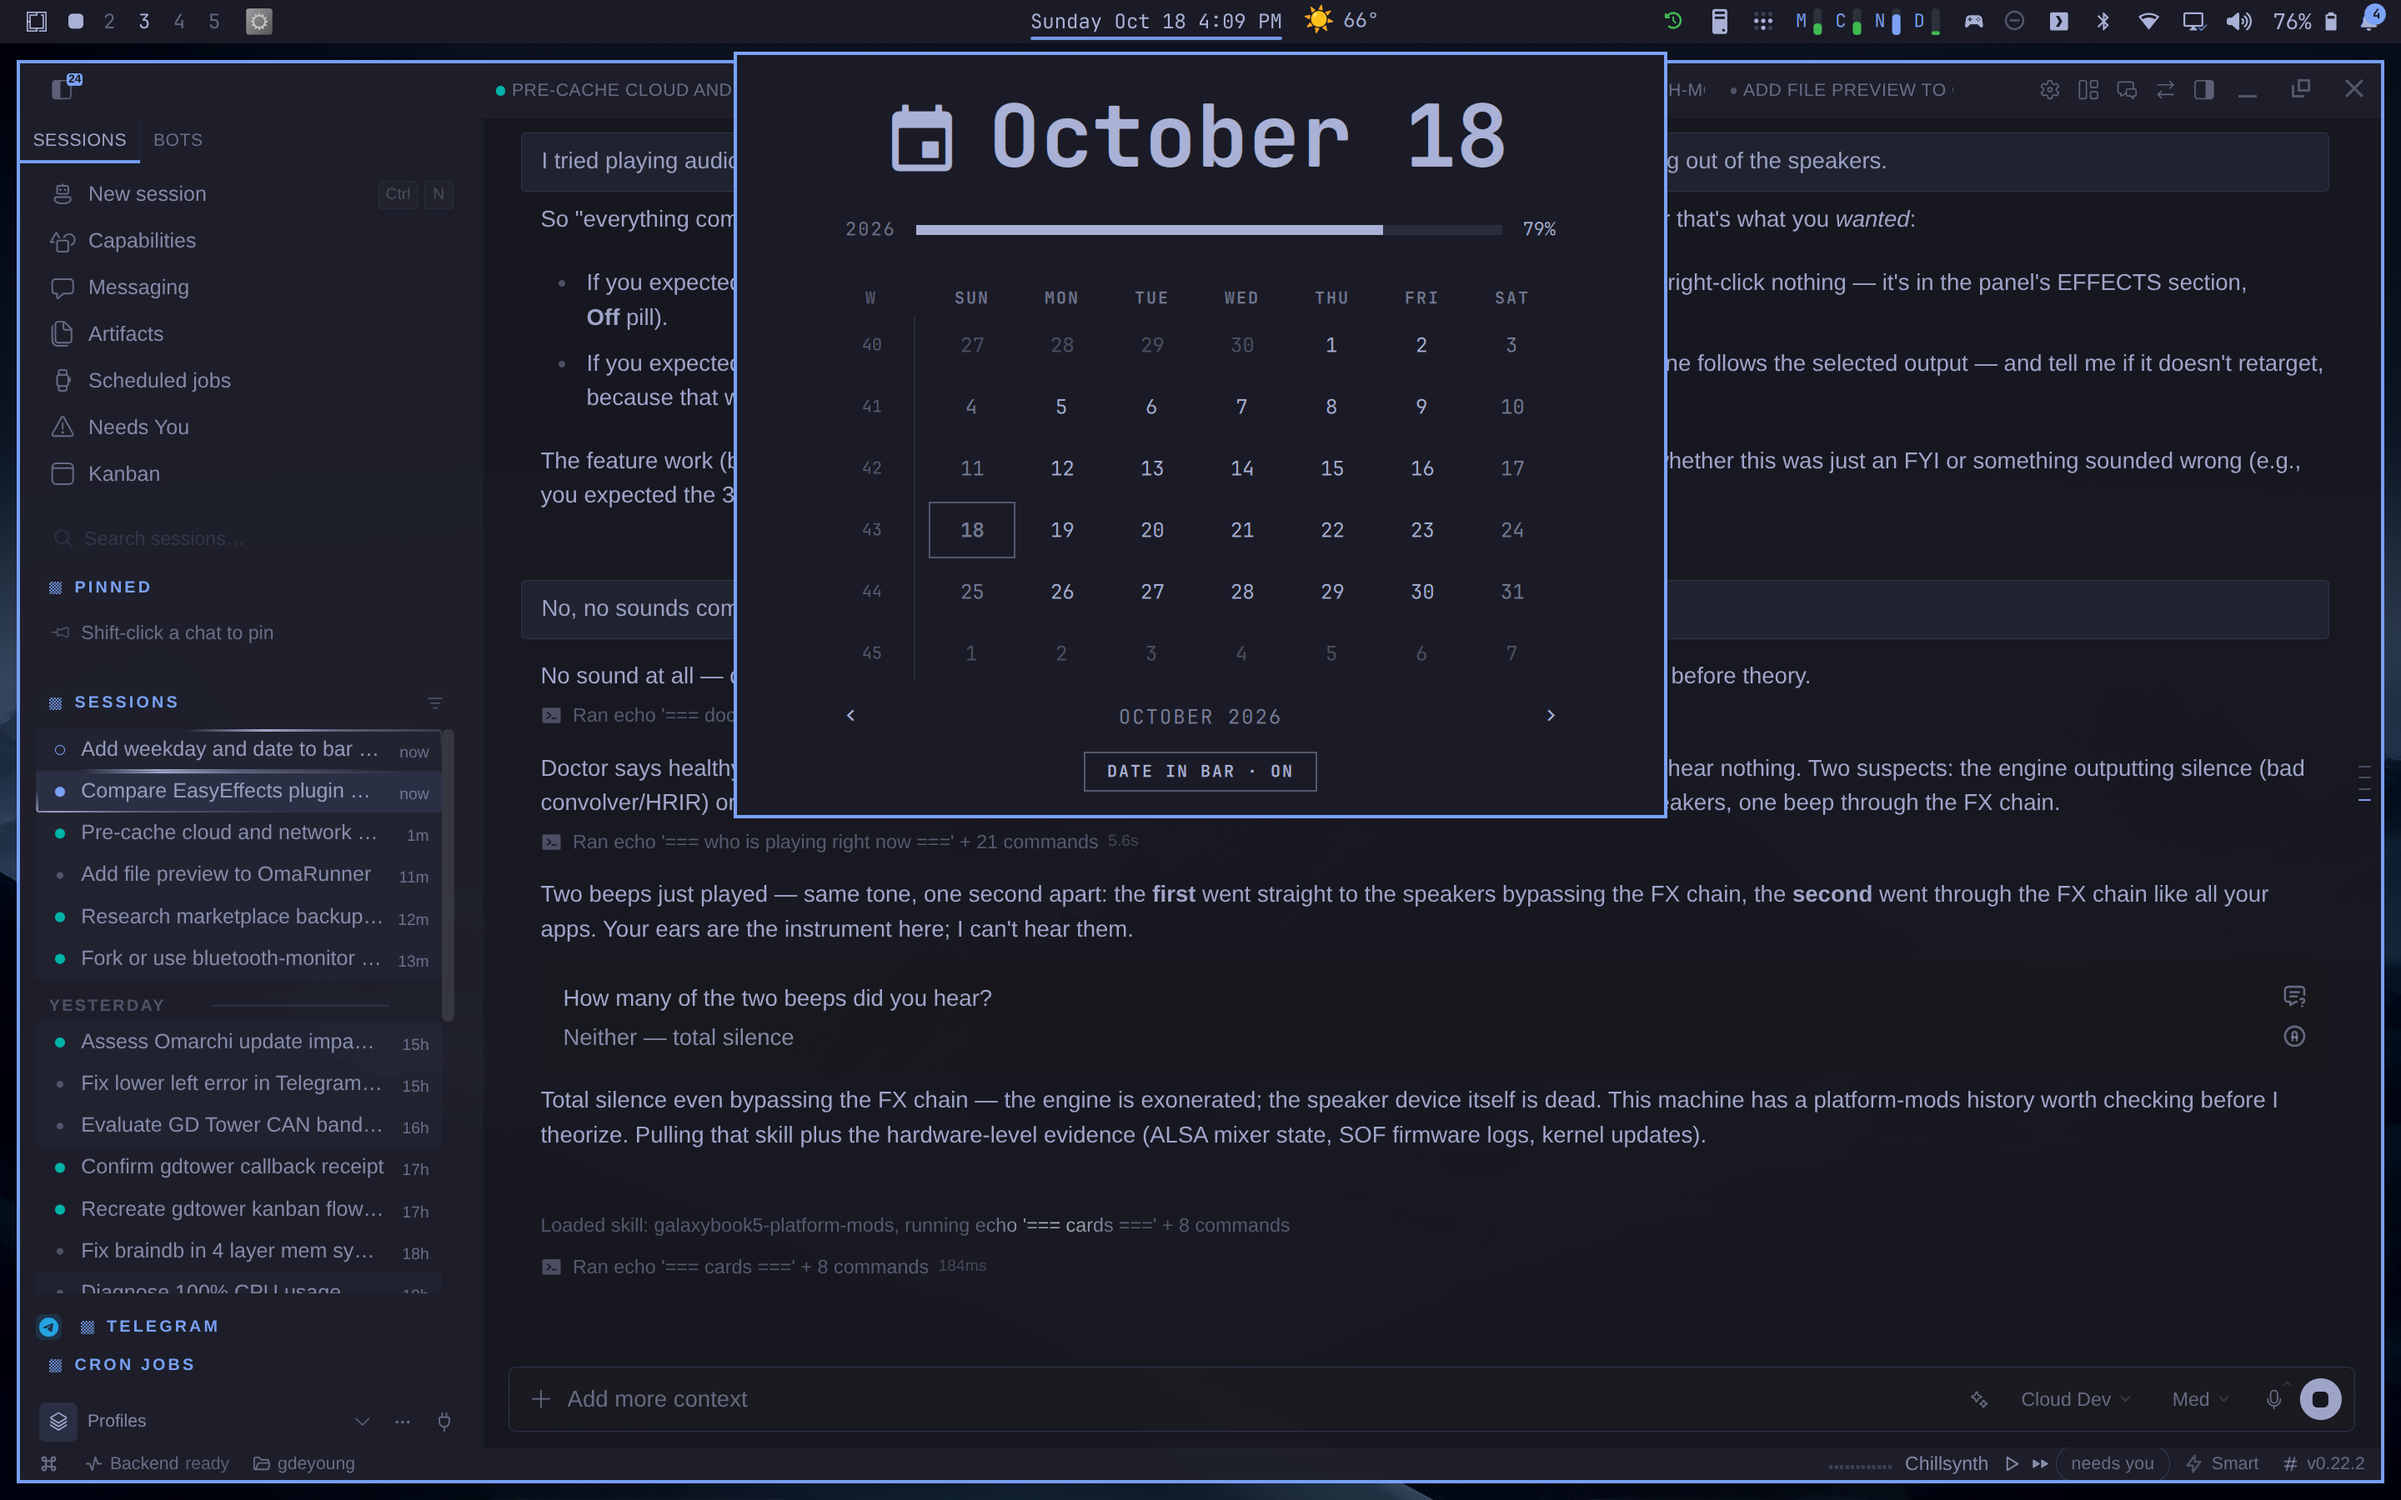
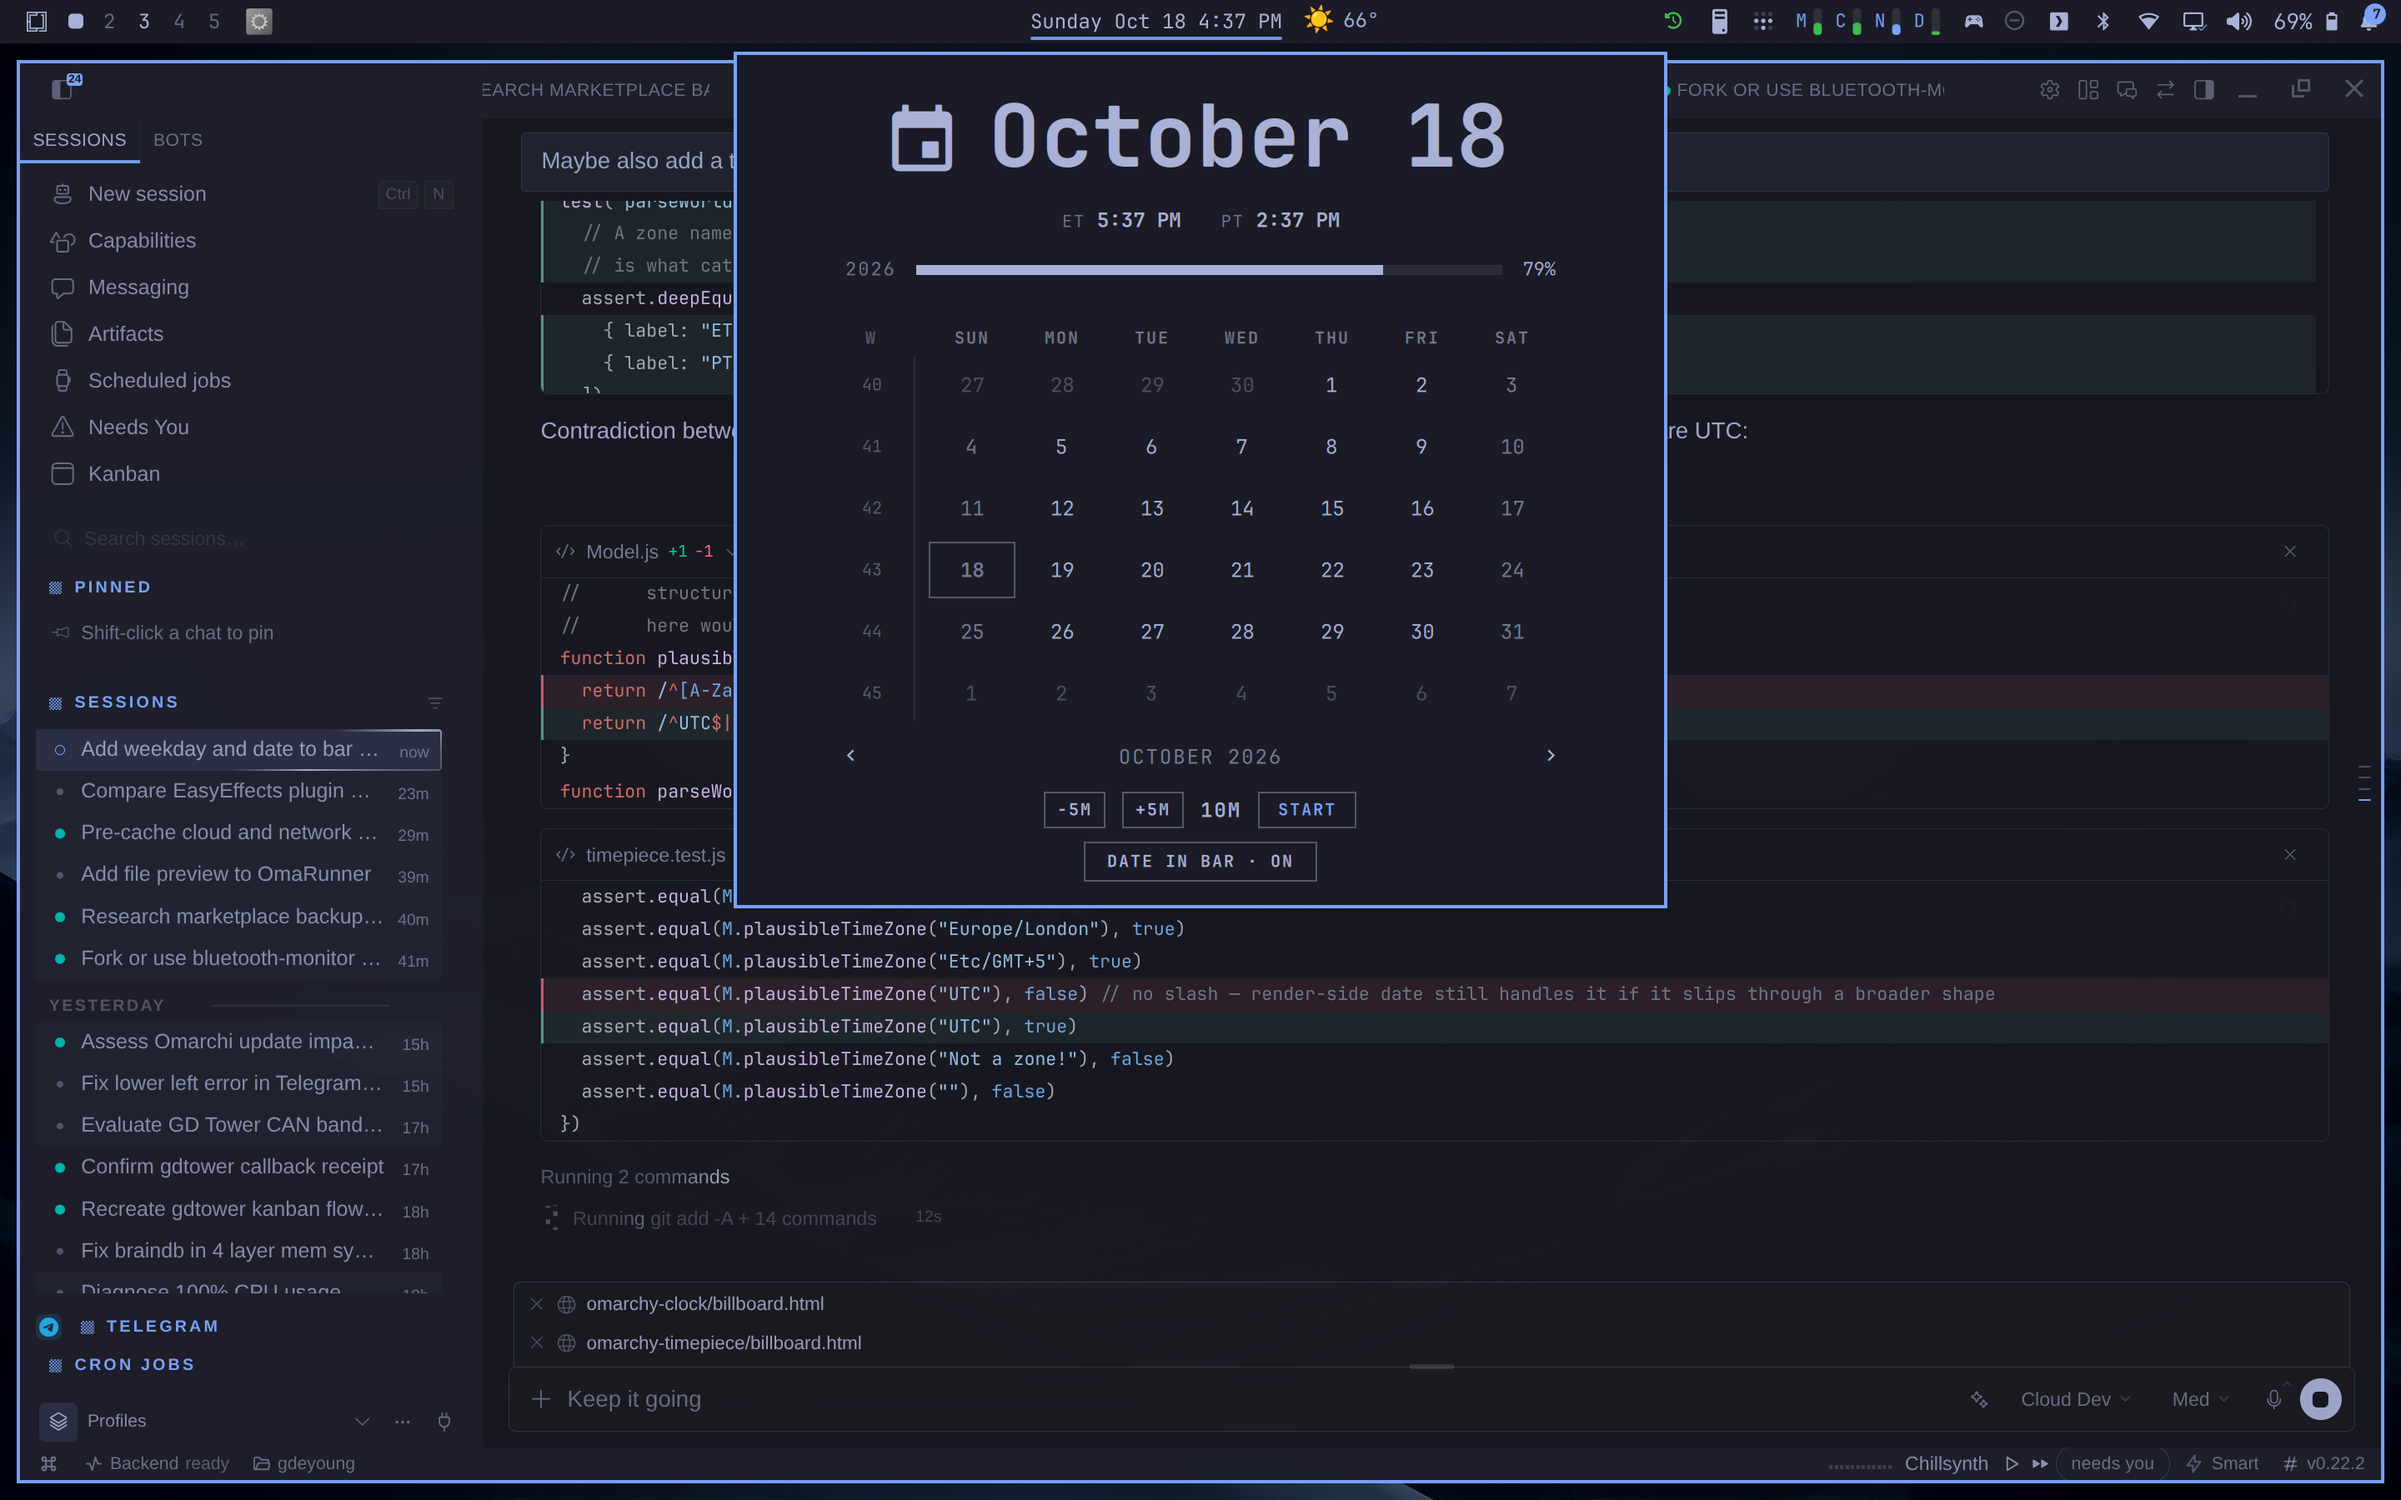
v0.2.0 packaging: billboard with zones+timer card, footer 0.2.0, real 22-test output

diff --git a/billboard.html b/billboard.html
@@ -35,16 +35,16 @@ p.intro{position:absolute;left:100px;top:400px;width:820px;font-size:22px;line-h
     <div><b>◆</b>Masks any format on the ring</div>
   </div>
   <div class="col">
-    <div><b>◆</b>Right-click format cycling kept</div>
-    <div><b>◆</b>Calendar, week numbers, week start</div>
-    <div><b>◆</b>Zero external commands</div>
+    <div><b>◆</b>World-clock row: ET · PT under the date</div>
+    <div><b>◆</b>Start/stop countdown timer, live in the bar</div>
+    <div><b>◆</b>Zero network — one read-only date call</div>
     <div><b>◆</b>MIT — rebases onto stock clock</div>
   </div>
 </div>
 <div class="rule"></div>
 <div class="footer mono">
   <span>what day it is, at a glance</span>
-  <span class="id">gdeyoung.timepiece · 0.1.1</span>
+  <span class="id">gdeyoung.timepiece · 0.2.0</span>
   <span>gdeyoung/omarchy-timepiece</span>
 </div>
 <div class="cap mono" id="capA">THE CALENDAR — DATE TOGGLE</div>
@@ -54,6 +54,6 @@ p.intro{position:absolute;left:100px;top:400px;width:820px;font-size:22px;line-h
 <span class="p">$</span> omarchy bar set gdeyoung.timepiece showDate false<br>
 Set showDate on gdeyoung.timepiece&nbsp;&nbsp;<span class="ok">→ Sunday 4:09 PM</span><br>
 <span class="p">$</span> node --test test/<br>
-ℹ tests 12&nbsp;&nbsp;ℹ pass 12&nbsp;&nbsp;ℹ fail 0
+ℹ tests 22ℹ tests 12&nbsp;&nbsp;ℹ pass 12&nbsp;&nbsp;ℹ fail 0nbsp;ℹ tests 12&nbsp;&nbsp;ℹ pass 12&nbsp;&nbsp;ℹ fail 0nbsp;ℹ pass 22ℹ tests 12&nbsp;&nbsp;ℹ pass 12&nbsp;&nbsp;ℹ fail 0nbsp;ℹ tests 12&nbsp;&nbsp;ℹ pass 12&nbsp;&nbsp;ℹ fail 0nbsp;ℹ fail 0
 </div></div>
 </body></html>
